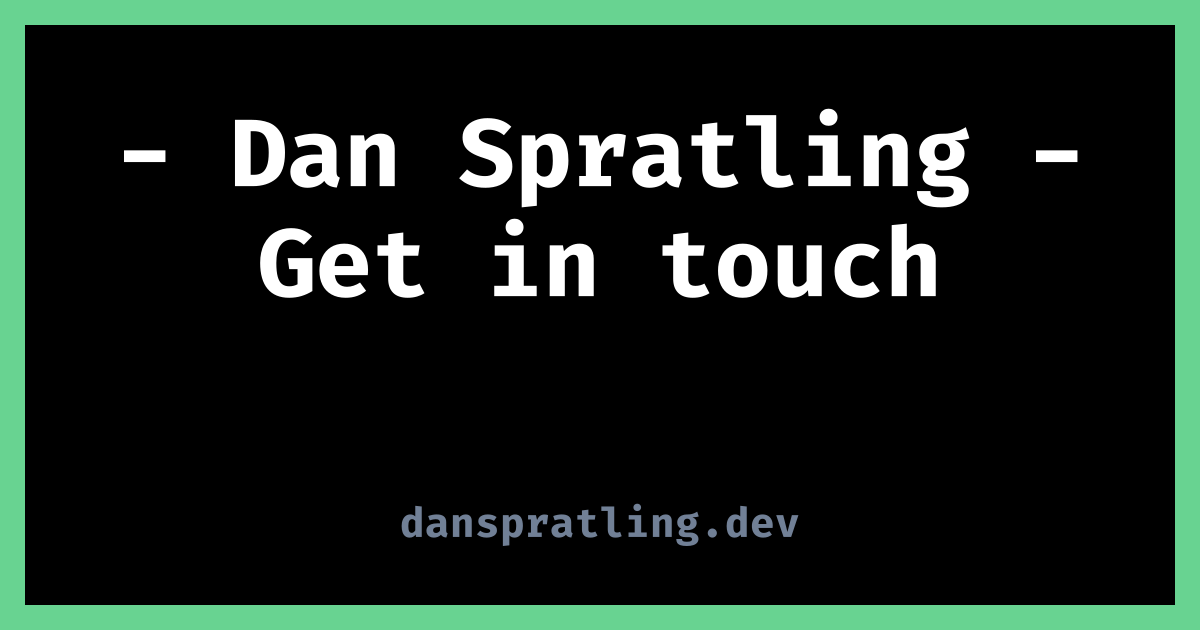
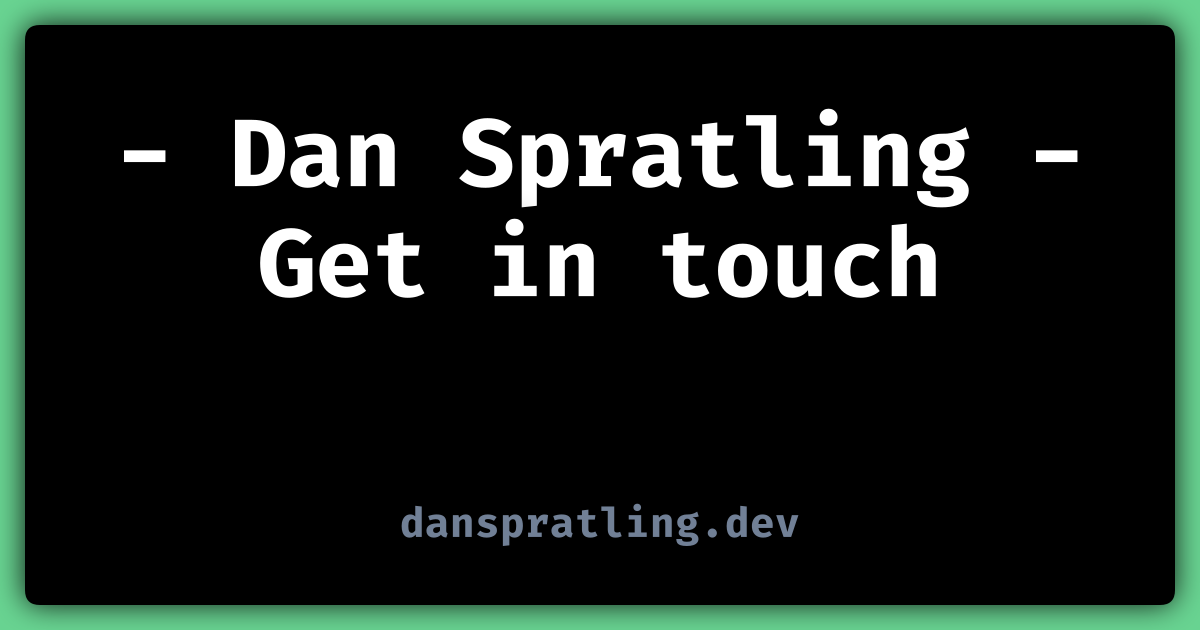
Improves OG images

Changed region(s): [[0.0, 0.0, 1.0, 0.9952]]

diff --git a/functions/socialImage.js b/functions/socialImage.js
@@ -19,8 +19,13 @@ function generateImage({ title, slug }) {
   height = height - 50
 
   //fill an inner container to simulate a border
+  context.shadowOffsetX = 0
+  context.shadowOffsetY = 0
+  context.shadowBlur = 25
+  context.shadowColor = 'rgba(0,0,0,0.9)'
   context.fillStyle = '#000'
-  context.fillRect(25, 25, width, height)
+  roundRect(context, 25, 25, width, height, 15, true, false)
+  // context.fillRect(25, 25, width, height)
 
   //set the copy style
   context.font = 'bold 70pt Fira Code'
@@ -67,6 +72,40 @@ function generateImage({ title, slug }) {
   fs.writeFileSync(`static/${imageLocation}`, buffer)
 
   return imageLocation
+}
+
+function roundRect(ctx, x, y, width, height, radius, fill, stroke) {
+  if (typeof stroke === 'undefined') {
+    stroke = true
+  }
+  if (typeof radius === 'undefined') {
+    radius = 5
+  }
+  if (typeof radius === 'number') {
+    radius = { tl: radius, tr: radius, br: radius, bl: radius }
+  } else {
+    var defaultRadius = { tl: 0, tr: 0, br: 0, bl: 0 }
+    for (var side in defaultRadius) {
+      radius[side] = radius[side] || defaultRadius[side]
+    }
+  }
+  ctx.beginPath()
+  ctx.moveTo(x + radius.tl, y)
+  ctx.lineTo(x + width - radius.tr, y)
+  ctx.quadraticCurveTo(x + width, y, x + width, y + radius.tr)
+  ctx.lineTo(x + width, y + height - radius.br)
+  ctx.quadraticCurveTo(x + width, y + height, x + width - radius.br, y + height)
+  ctx.lineTo(x + radius.bl, y + height)
+  ctx.quadraticCurveTo(x, y + height, x, y + height - radius.bl)
+  ctx.lineTo(x, y + radius.tl)
+  ctx.quadraticCurveTo(x, y, x + radius.tl, y)
+  ctx.closePath()
+  if (fill) {
+    ctx.fill()
+  }
+  if (stroke) {
+    ctx.stroke()
+  }
 }
 
 module.exports = generateImage
